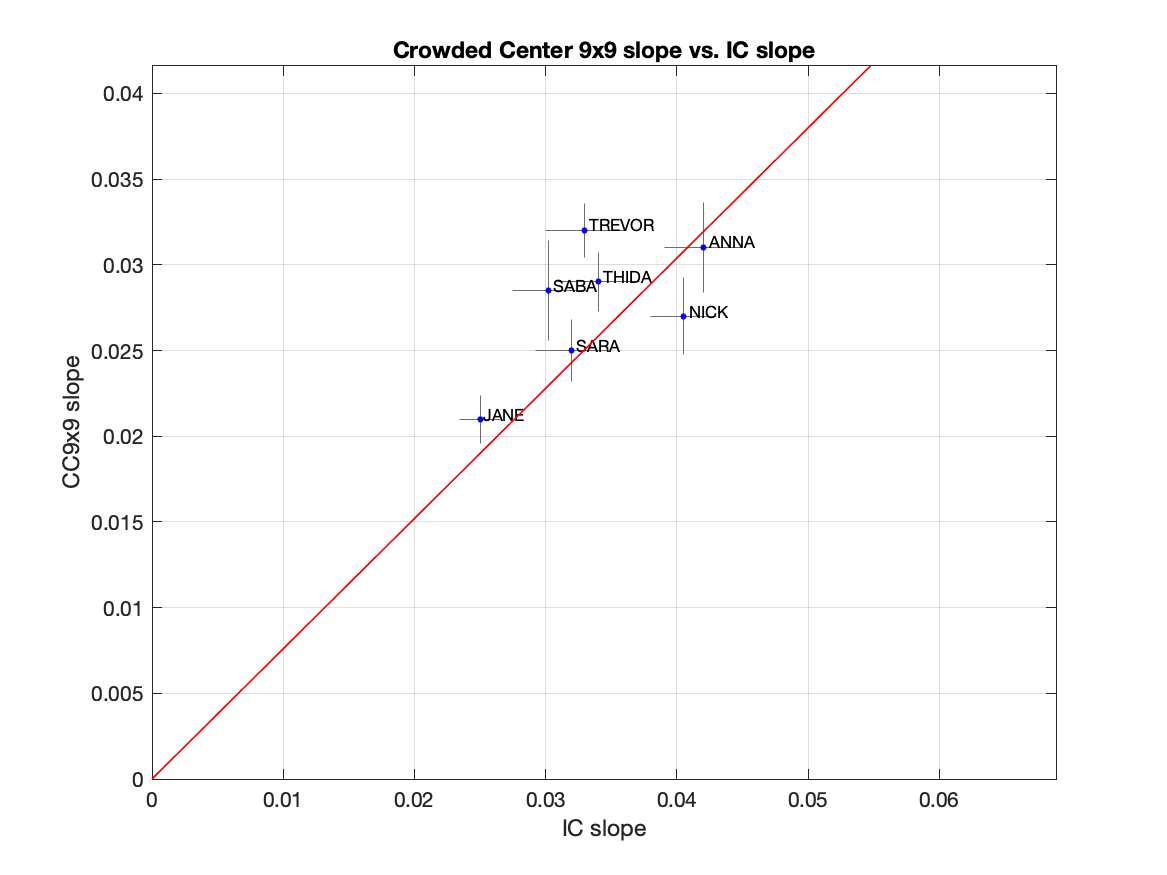
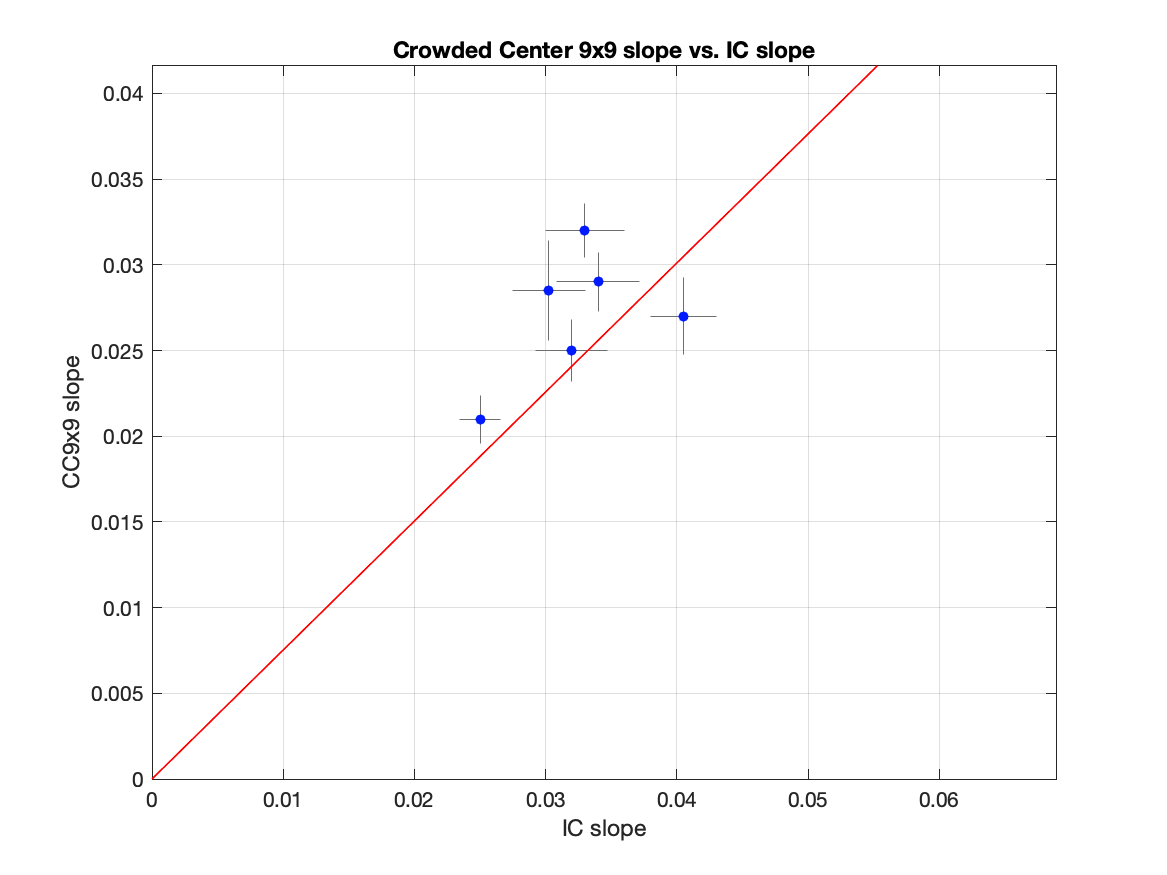
Fixed correlation analysis script, had not been updated since readCsv helper had been changed

diff --git a/Analysis/correlationAnalysis.m b/Analysis/correlationAnalysis.m
@@ -1,0 +1,157 @@
+% Correlation Analysis
+% Created by Patrick Wilson on 1/20/2020
+% Github.com/patrickmwilson
+% Created for the Elegant Mind Collaboration at UCLA 
+% with Professor Katsushi Arisaka
+% Copyright � 2020 Elegant Mind Collaboration. All rights reserved.
+
+% Suppress warnings about modified csv headers & directory existing
+warning('off','MATLAB:table:ModifiedAndSavedVarnames');
+warning('off','MATLAB:MKDIR:DirectoryExists');
+%Add helper functions to path (readCsv.m)
+functionPath = fullfile(pwd, 'lib');
+addpath(functionPath); 
+
+close all; 
+
+dataAnswer = questdlg('Add subject names?', '', 'Yes', 'No', 'Cancel', 'Yes');
+graphNames = (char(dataAnswer(1)) == 'Y');
+
+dotColor = [0 0.1 1];
+
+table = readCsv('Compiled');
+
+t1 = figure();
+cp = figure();
+cpo = figure();
+cc9 = figure();
+cc3 = figure();
+cp9 = figure();
+cc39 = figure();
+cpocp = figure();
+
+names = strings(0);
+params = [];
+errors = [];
+
+count = 1;
+for i = 2:size(table,1)
+    name = string(table{i,3});
+
+    for j = 1:7
+        currParams(j) = table{i,(((j-1)*4)+5)};
+        currErrors(j) = table{i,(((j-1)*4)+7)};
+    end
+    
+    currParams(isnan(currParams)) = 0;
+    currErrors(isnan(currErrors)) = 0;
+    if(isempty(names) || ~any(strcmp(names(1,:),name)))
+        index = count;
+        count = count+1;
+        names(index) = name;
+        params(index,:) = currParams;
+        errors(index,:) = currErrors;
+    else
+        index = find(names == name);
+        div = (1*(currParams(1,:) ~= 0))+1;
+        params(index,:) = (params(index,:) + currParams)./div;
+        div = (1*(currErrors(1,:) ~= 0))+1;
+        errors(index,:) = (errors(index,:) + currErrors)./div;
+    end
+end
+
+figures = [t1,cp,cpo,cc9,cc3,cp9,cc39,cpocp];
+
+yIndex = [1, 2, 3, 4, 5, 7, 4, 3];
+xIndex = [6, 6, 6, 6, 6, 6, 5, 2];
+
+for j = 1:length(figures)
+    
+    xI = xIndex(j);
+    yI = yIndex(j);
+    
+    for i = 1:size(params,1)
+        if((params(i,yI) ~= 0) && (params(i,xI) ~= 0))
+            
+            figure(figures(j));
+            hold on;
+            errorbar(params(i,xI), params(i,yI), errors(i,xI), ...
+                'horizontal','.', 'HandleVisibility', 'off', ...
+                'Color', [0.43 0.43 0.43], 'CapSize', 0);
+            
+            errorbar(params(i,xI), params(i,yI), errors(i,yI), ...
+                'vertical','.', 'HandleVisibility', 'off', ...
+                'Color', [0.43 0.43 0.43], 'CapSize', 0);
+            
+            scatter(params(i,xI), params(i,yI), 25, dotColor, ...
+                "filled", 'HandleVisibility', 'off');
+            
+            if graphNames
+                text((params(i,xI)*1.01), (params(i,yI)*1.01), names(i), 'FontSize', 8);
+            end
+
+        end
+    end
+end
+
+
+titles = ["T1 slope vs. IC slope", ...
+    "Crowded Periphery Center slope vs. IC slope", ...
+    "Crowded Periphery outer slope vs. IC slope", ...
+    "Crowded Center 9x9 slope vs. IC slope", ...
+    "Crowded Center 3x3 slope vs. IC slope", ...
+    "Crowded Periphery 9x9 slope vs. IC slope", ...
+    "Crowded Center 9x9 slope vs. Crowded Center 3x3 slope", ...
+    "Crowded Periphery Outer slope vs. Crowded Periphery Center slope"];
+yLabels = ["T1 slope", ...
+    "CPC slope", ...
+    "CPO slope", ...
+    "CC9x9 slope", ...
+    "CC3x3 slope", ...
+    "CP9x9 slope", ...
+    "CC9x9 Slope", ...
+    "CPO Slope"];
+xLabels = ["IC slope", ...
+    "IC slope", ...
+    "IC slope", ...
+    "IC slope", ...
+    "IC slope", ...
+    "IC slope", ...
+    "CC3x3 Slope", ...
+    "CPC Slope"];
+
+filenames = [ "T1vsIC", "CPCvsIC", "CPOvsIC", "CC9x9vsIC", "CC3x3vsIC", ...
+    "CP9x9vsIC", "CC9x9vsCC3x3", "CPOvsCPC"];
+
+params(params == 0) = NaN;
+for i = 1:length(figures)
+    figure(figures(i));
+    xlim([0, (max(params(:,xIndex(i)))*1.3)]);
+    ylim([0 (max(params(:,yIndex(i)))*1.3)]);
+    title(titles(i));
+    xlabel(xLabels(i));
+    ylabel(yLabels(i));
+    grid on;
+    box on;
+    
+    yavg = nanmean(params(:,yIndex(i)));
+    xavg = nanmean(params(:,xIndex(i)));
+    
+    slope = yavg/xavg;
+
+    xvals = linspace(0,(max(params(:,xIndex(i)))*2));
+    yvals = xvals.*slope;
+
+    plot(xvals,yvals,'Color', [1 0 0], 'LineWidth', 0.8, 'HandleVisibility', ...
+        'off');
+    
+    folderName = fullfile(pwd, 'Analysis Results', 'Correlation Analysis'); 
+    mkdir(folderName);
+    fileName = sprintf('%s%s', filenames(i), '.png');
+    saveas(figures(i), fullfile(folderName, fileName));
+end
+
+uiwait(helpdlg('Click OK to finish and close figures'));
+
+
+

diff --git a/Analysis/lib/readCsv.m b/Analysis/lib/readCsv.m
@@ -16,6 +16,8 @@ function table = readCsv(name)
     
     if(strcmp(name,'Anstis'))
         folder = fullfile(pwd, 'Active Data', 'Anstis');
+    elseif(strcmp(name,'Compiled'))
+        folder = fullfile(pwd, 'Analysis Results');
     else
         folder = fullfile(pwd, 'Active Data');
     end
@@ -37,6 +39,8 @@ function table = readCsv(name)
     end
     
     % Convert the table to an array
-    table = table2array(table);
+    if ~strcmp(name,'Compiled')
+        table = table2array(table);
+    end
 
 end
